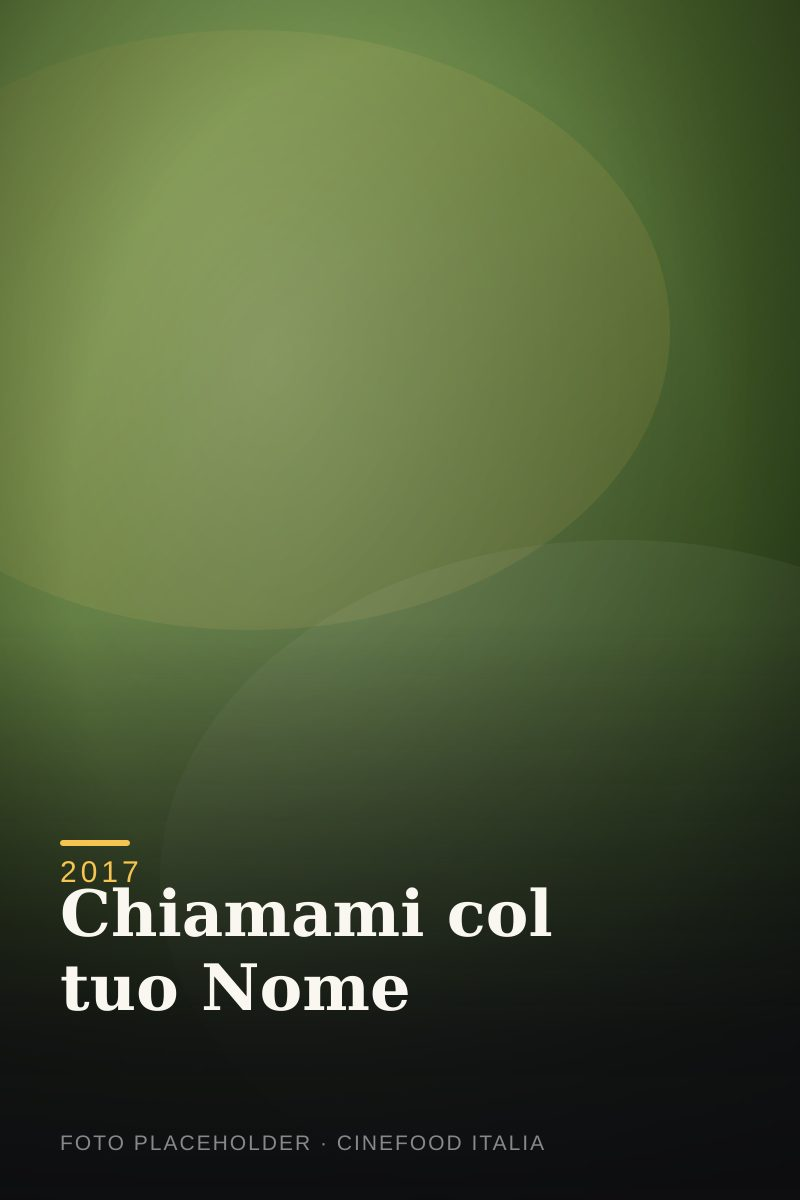
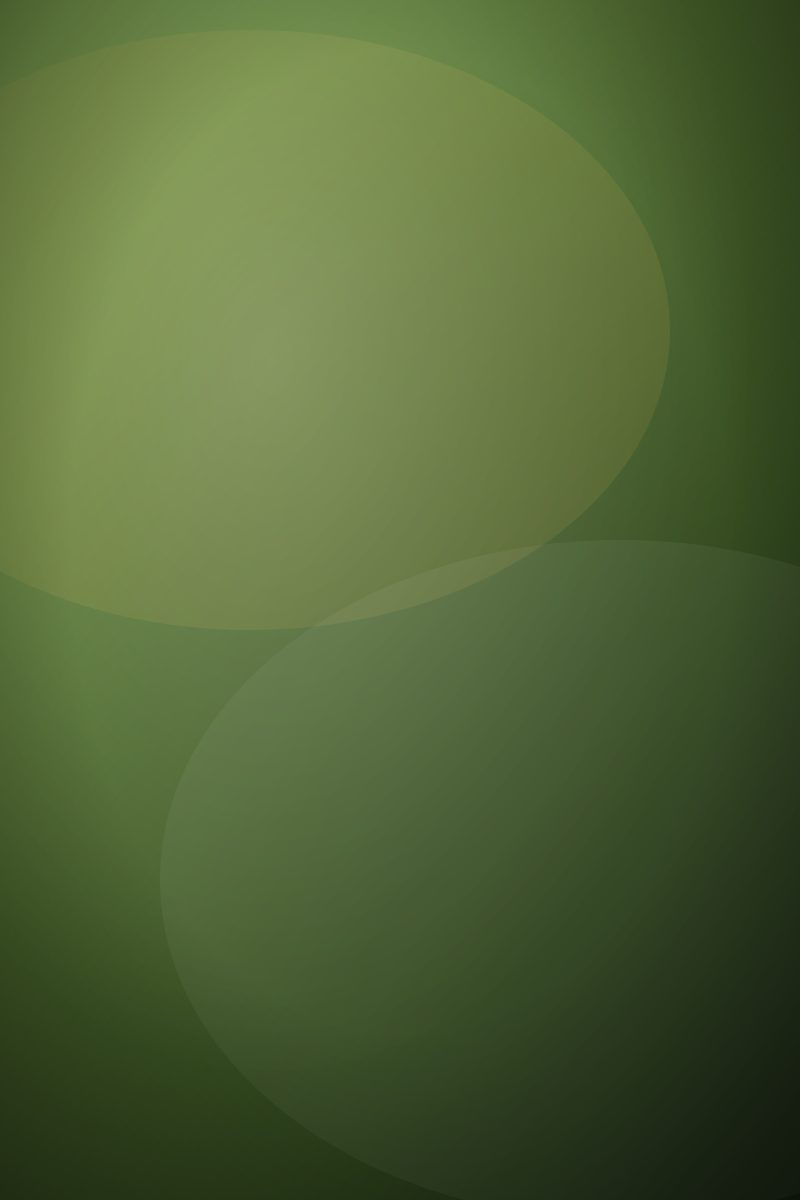
feat: titolo film sempre leggibile sull'immagine + hero interattivo
- Le locandine ora hanno il TITOLO del film sovrapposto in HTML (nitido,
  con tipo e anno), così si capisce sempre di che film si tratta anche
  senza la locandina reale. Le immagini di sfondo sono d'atmosfera (senza
  testo) per non confondere. Vale per l'elenco Film in IT ed EN.
- Hero della home: leggero zoom animato "ken burns" (interattivo/adattivo,
  rispetta prefers-reduced-motion); su Netlify viene scaricata una foto
  reale a tema per lo sfondo (Openverse, CC0).

Build 123 pagine, astro check 0 errori.

Claude-Session: https://claude.ai/code/session_01AKiWBdF5K5WCtmebNtJUZ8

diff --git a/cinefood-italia/src/styles/global.css b/cinefood-italia/src/styles/global.css
@@ -99,6 +99,20 @@ body {
   }
 }
 
+/* Immagine hero: lento zoom "ken burns" (movimento morbido e continuo) */
+@keyframes kenburns {
+  from { transform: scale(1); }
+  to { transform: scale(1.12); }
+}
+.hero-zoom {
+  animation: kenburns 22s ease-in-out infinite alternate;
+}
+@media (prefers-reduced-motion: reduce) {
+  .hero-zoom {
+    animation: none;
+  }
+}
+
 /* Utility: gradiente scuro per leggibilità del testo sulle foto */
 .overlay-bottom {
   background-image: linear-gradient(
